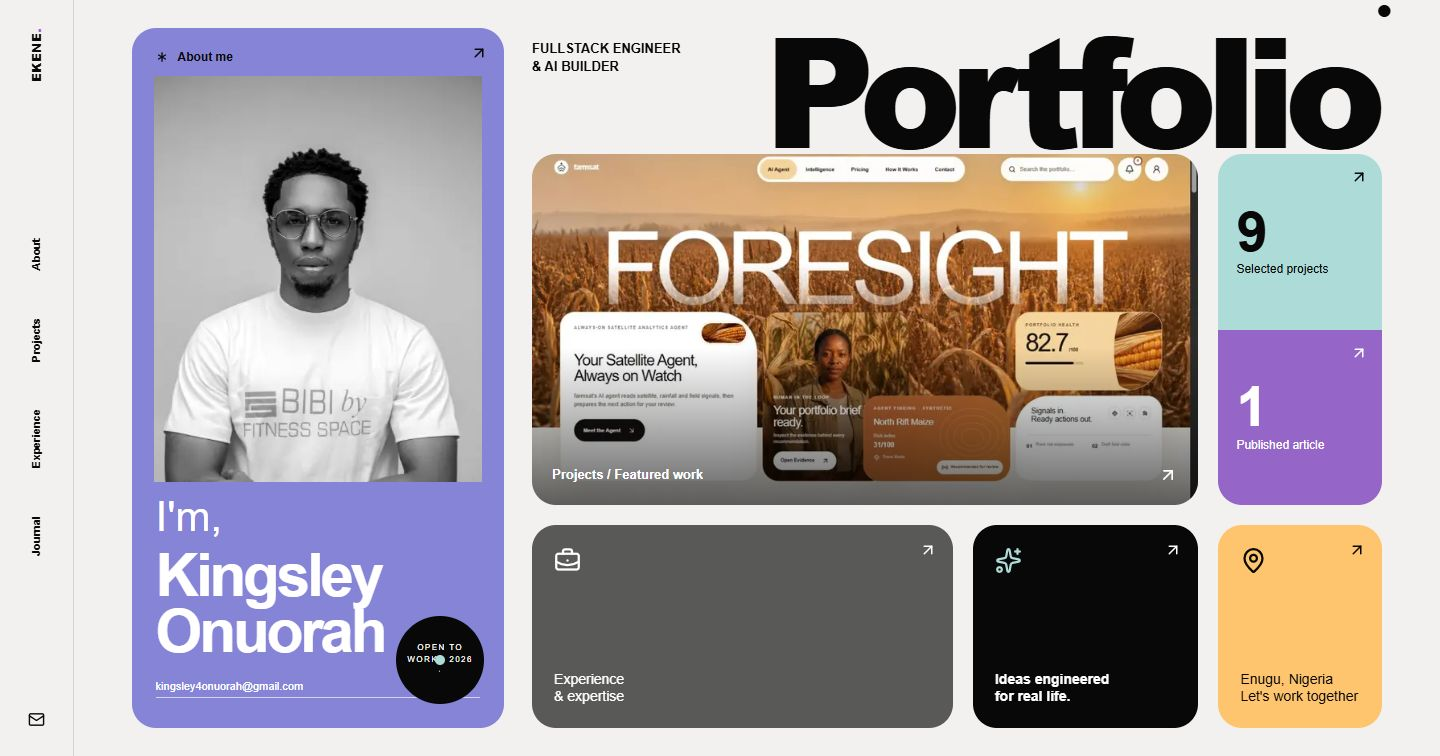
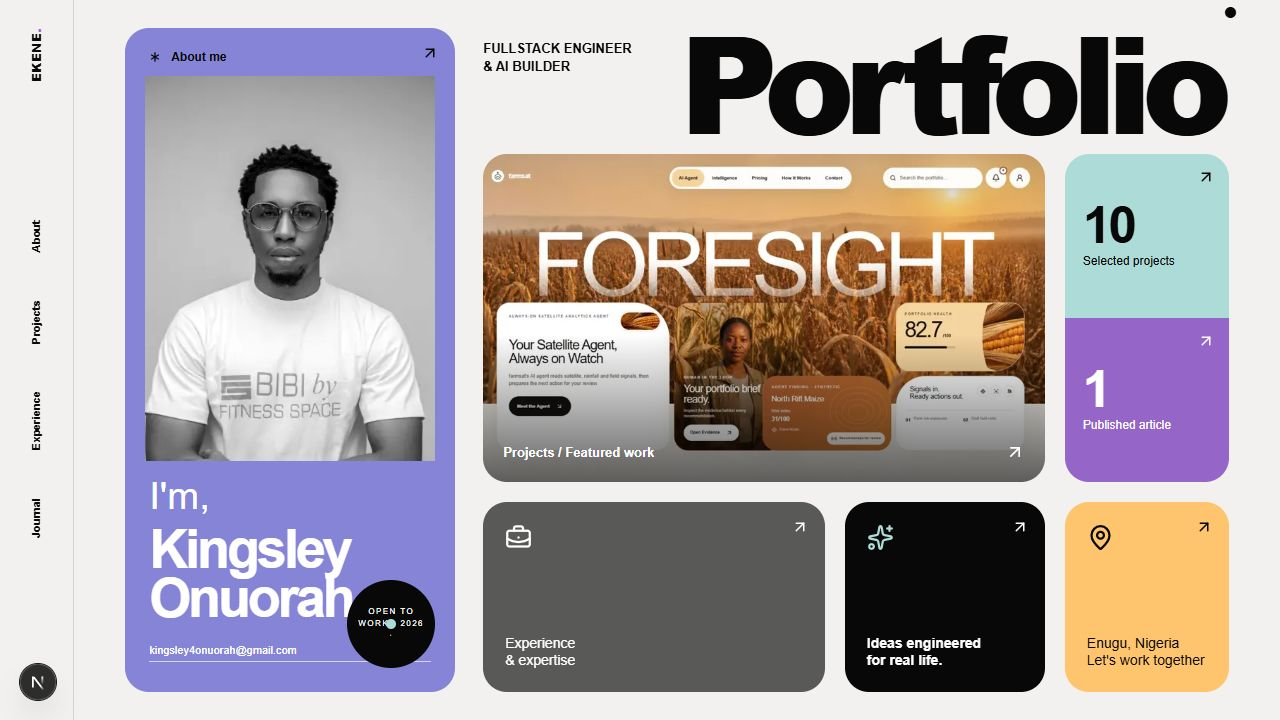
feat: add Jeje Limited project

diff --git a/components/content.ts b/components/content.ts
@@ -16,6 +16,7 @@ export const projects: Project[] = [
   { name: "Edu Learning & Immersion", eyebrow: "Language education", description: "A multilingual learning platform for language, communication and digital solutions.", image: "/projects/edu-learning.png", url: "https://www.edulearningimmersion.org/en", stack: ["Next.js", "TypeScript", "Education"], tone: "blue" },
   { name: "Fitness Space", eyebrow: "Wellness platform", description: "Scalable wellness infrastructure, personalized guidance and Bibi AI for healthier daily habits.", image: "/fitnessspace.png", url: "https://getfitness.space", stack: ["Node.js", "MongoDB", "Redis", "AWS", "AI"], tone: "lavender" },
   { name: "Ajo Cash", eyebrow: "Digital trust infrastructure", description: "Digital infrastructure for Nigerian rotating savings groups with automatic contributions, instant payouts and AI-powered trust.", image: "/projects/ajo-cash.jpg", url: "https://www.ajo.cash", stack: ["Fintech", "Savings", "Trust infrastructure"], tone: "purple" },
+  { name: "Jeje Limited", eyebrow: "Bakery storefront", description: "A vibrant digital storefront for Nigerian bread and confectioneries, featuring an interactive product carousel, menu and shopping cart.", image: "/projects/jeje-limited.jpg", url: "https://www.jejelimited.com", stack: ["E-commerce", "Food & beverage", "Interactive design"], tone: "coral" },
   { name: "FarmShare Marketplace", eyebrow: "Agricultural commerce", description: "A pooled-buying marketplace connecting Nigerian farmers, vendors and buyers.", image: "/farmshare.png", url: "https://farmshare-marketplace.vercel.app", stack: ["Next.js", "NestJS", "PostgreSQL"], tone: "mint" },
   { name: "DevRise Academy", eyebrow: "Developer education", description: "Structured learning paths and mentorship helping professionals transition into technology.", image: "/devrise.png", url: "https://thedevrise.com", stack: ["Next.js", "TypeScript", "Node.js"], tone: "blue" },
 ];

diff --git a/app/projects/page.tsx b/app/projects/page.tsx
@@ -6,7 +6,7 @@ import { createPageMetadata } from "@/components/seo";
 
 export const metadata = createPageMetadata({
   title: "Projects — AI, Fullstack & Product Engineering",
-  description: "Explore 9 selected projects by Kingsley Onuorah, including AERA, Fitness Space, Ajo Cash, FarmSat, BorderMind AI, ChangeLedger and Edu Learning & Immersion.",
+  description: `Explore ${projects.length} selected projects by Kingsley Onuorah, including AERA, Fitness Space, Ajo Cash, Jeje Limited, FarmSat, BorderMind AI and ChangeLedger.`,
   path: "/projects",
 });
 
